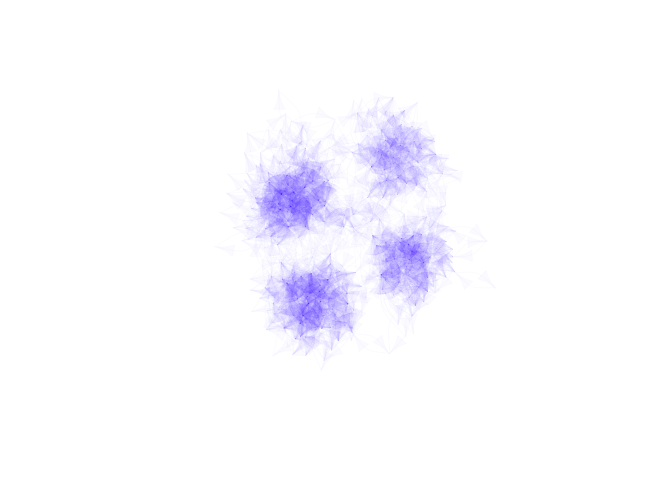
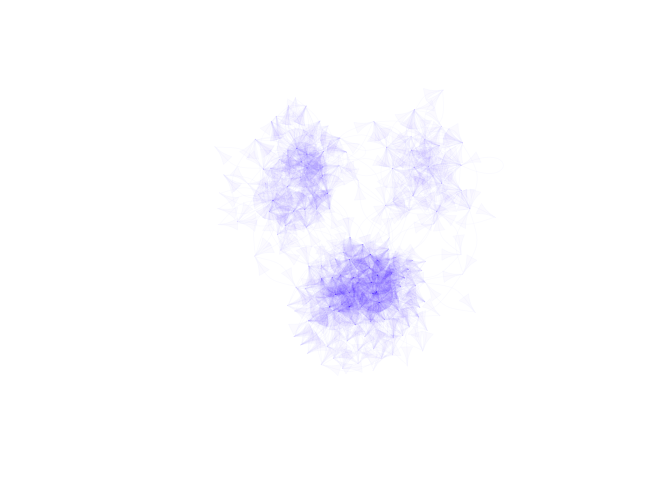
now with README

Changed region(s): [[0.375, 0.2188, 0.6875, 0.75]]

diff --git a/README.md b/README.md
@@ -22,25 +22,24 @@ You can install EcoNetGen from github with:
 devtools::install_github("cboettig/EcoNetGen")
 ```
 
-## Example
+## Generate random networks
 
 This is a basic example which generates a network. See `?netgen` for
 documentation describing the parameter arguments.
 
 ``` r
 library(EcoNetGen)
-network <- netgen(n_modav = c(250, 20), 
-                  cutoffs = c(50, 5), 
-                  net_type = 41, 
-                  net_degree = 10,
-                  net_rewire = c(0.07,0.2),
-                  mod_probs = c(0.2, 0.0, 0.3, 0.3, 0.2, 0.0, 0.0))
+network <- netgen(n_modav = c(150, 20), # network size, ave module size
+                  cutoffs = c(20, 5),   # module and submodule min sizes
+                  net_type = 41,        # bi-partite nested
+                  net_degree = 10,      # average degree of connection
+                  net_rewire = c(0.07,0.2)) # rewire probabilities
 #> 
-#> module count = 4 
-#> average degree = 8.736 
-#> average module size = 62.5 
+#> module count = 3 
+#> average degree = 8.62666666666667 
+#> average module size = 50 
 #> number of components = 1 
-#> size of largest component = 250
+#> size of largest component = 150
 ```
 
 We can plot the resulting `igraph` as an adjacency matrix:
@@ -71,6 +70,49 @@ plot(network, vertex.size= 0, vertex.label=NA,
 
 ![](man/figures/README-unnamed-chunk-3-1.png)<!-- -->
 
+## Sample from a network
+
+``` r
+subnet <- netsample(network,
+                 crit = c(4,0), # Sample key nodes by degree, neighbors randomly
+                 key_nodes = c(50, 50, 10, 1000),
+                 anfn = 0.5, # samples 50% of neighbors
+                 numb_hidden = 0,
+                 hidden_modules = c(0,0,0,0,0,0,0,0,0,0)
+                 )
+```
+
+We can plot the adjacency network, coloring red the sampled nodes. Note
+that `adj_plot` objects are just `ggplot` graphs (`geom_raster`) under
+the hood, and can be modified with the usual `ggplot` arguments, such as
+adding a title here.
+
+``` r
+library(ggplot2)
+adj_plot(subnet) + ggtitle("Adjacency matrix of sampled vs full network")
+```
+
+![](man/figures/README-unnamed-chunk-5-1.png)<!-- -->
+
+Don’t forget to check out the `ggraph` package, which isn’t required for
+`EcoNetGen` but provides a lot of additional great ways to plot your
+network. Here we plot the simulated network color-coding the sampled
+nodes and edges (indicated by the label “sampled” on vertices and
+edges):
+
+``` r
+library(ggraph)
+ggraph(subnet, layout = 'kk') +
+        geom_edge_link(aes(colour = label, lwd = label), alpha=0.4) +
+        geom_node_point(aes(colour = label)) +
+        theme_graph()
+#> Warning: Ignoring unknown aesthetics: edge_size
+```
+
+![](man/figures/README-unnamed-chunk-6-1.png)<!-- -->
+
+## A few example statistics
+
 And we can compute common statistics from igraph as well. Here we
 confirm that clustering by “edge betweeness” gives us the expected
 number of modules:
@@ -78,7 +120,7 @@ number of modules:
 ``` r
 community <- cluster_edge_betweenness(as.undirected(network))
 length(groups(community))
-#> [1] 4
+#> [1] 3
 ```
 
 We can check the size of each module as well:
@@ -86,13 +128,13 @@ We can check the size of each module as well:
 ``` r
 module_sizes <- sapply(groups(community), length)
 module_sizes
-#>  1  2  3  4 
-#> 53 52 63 82
+#>  1  2  3 
+#> 47 76 27
 mean(module_sizes)
-#> [1] 62.5
+#> [1] 50
 ```
 
 ``` r
 mean(degree(as.undirected(network)))
-#> [1] 8.752
+#> [1] 8.64
 ```
